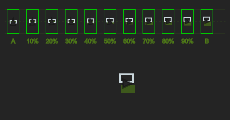
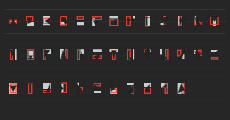
Alphabet Changes
updated alphabet and readme

diff --git a/draw_letters.js b/draw_letters.js
@@ -1,6 +1,6 @@
-const colorFront1  = "#75cc0a50"; //green
-const colorFront2  = "#ccd9deFA"; //white
-const colorStroke  = "#0f0f0f80"; //stroke colour
+const colorFront1  = "#C9D1D3FA"; //green
+const colorFront2  = "#ff402bD9"; //white
+const colorStroke  = "#1c1c1c80"; //stroke colour
 
 
 /*
@@ -34,7 +34,7 @@ function drawLetter(letterData) {
   fill(colorFront1);
   rect(pos2x, pos2y, rectwidth, recthigh);
   stroke(colorFront2);
-  strokeWeight(8);
+  strokeWeight(10);
   noFill();
   rect(rect_twox, rect_twoy, rectwidth_two, recthigh_two);
   stroke(colorStroke);

diff --git a/index.html b/index.html
@@ -4,7 +4,7 @@
     <script language="javascript" type="text/javascript" src="z_purview_helper.js"></script>
     <script language="javascript" type="text/javascript" src="letters.js"></script>
     <script language="javascript" type="text/javascript" src="draw_letters.js"></script>
-    <script language="javascript" type="text/javascript" src="interaction.js"></script>
+    <script language="javascript" type="text/javascript" src="alphabet.js"></script>
 </head>
 <body style="background-color:white">
     <div class="outer">

diff --git a/alphabet.js b/alphabet.js
@@ -1,8 +1,8 @@
 /*
  * Here are some things you can edit
  */
-const colorBack    = "#292929";
-const colorLines   = "#75cc0a50";
+const colorBack    = "#262626";
+const colorLines   = "#e3e3e350";
 
 /* 
  * do not edit this rest of this file, instead edit the letter

diff --git a/exhibition.js b/exhibition.js
@@ -1,7 +1,7 @@
 /*
  * Here are some things you can edit
  */
-const colorBack    = "#e3eded";
+const colorBack    = "#262626";
 const colorFront   = "#199cff";
 const colorLines   = "#000090";
 

diff --git a/editor.js b/editor.js
@@ -1,7 +1,7 @@
 /*
  * Here are some things you can edit
  */
-const colorBack    = "#242424";
+const colorBack    = "#262626";
 const colorLines   = "#000090";
 
 /*******

diff --git a/README.md b/README.md
@@ -2,18 +2,15 @@
 
 MDDN242 README
 
-Interpolation - 13/05/2020
+Alphabet Colour Change - 15/05/2020
 
-I put my parameteters into the interpolate letter function and had a look at how my shades look when it's in the progress of forming the next letter.
-It was awesome to look at all the transitions, in my opinion (based on the large sample I tested) there weren't any problems with the transition between
-letters. There were some triangle points that stretched and touched the boundary box but it was fine. I believe my triangle made the transitions more
-interesting because of its opacity stroke and colour fill that's the same as the background. There were just a lot of combinations that looked great!
-you can have a look at the transition between these letters, I liked these ones the most:
+After the completion of my alphabet I noticed that my letter's didn't look good at all when it became smaller in the alphabet.html preview compared to the exhibition.html view.
+So I decided to make some changes so my letters look good no matter the size. The changes I made were the colours - I went back to my initial colour scheme of black and red to
+capture the vampire fang look to my font (initial idea). I couldn't decide on a white or black background for a while but in the end I picked black because it suited my theme more
+and the black stroke on my triangle is a striking feature to my design so I will go with a darker BG.
 
-M to R
-4 to D
-Y to X
-
+I will also rework some of the letters now that I have changed the colours. The letters c, e, h, im o and 0 look very strange and while I was testing words in the exhibition, some
+combinations looked very strange so I will rework these letters.
 
 The 14 parameters per letter:
  • "offsetx": 17, | x position for first rect (filled)
